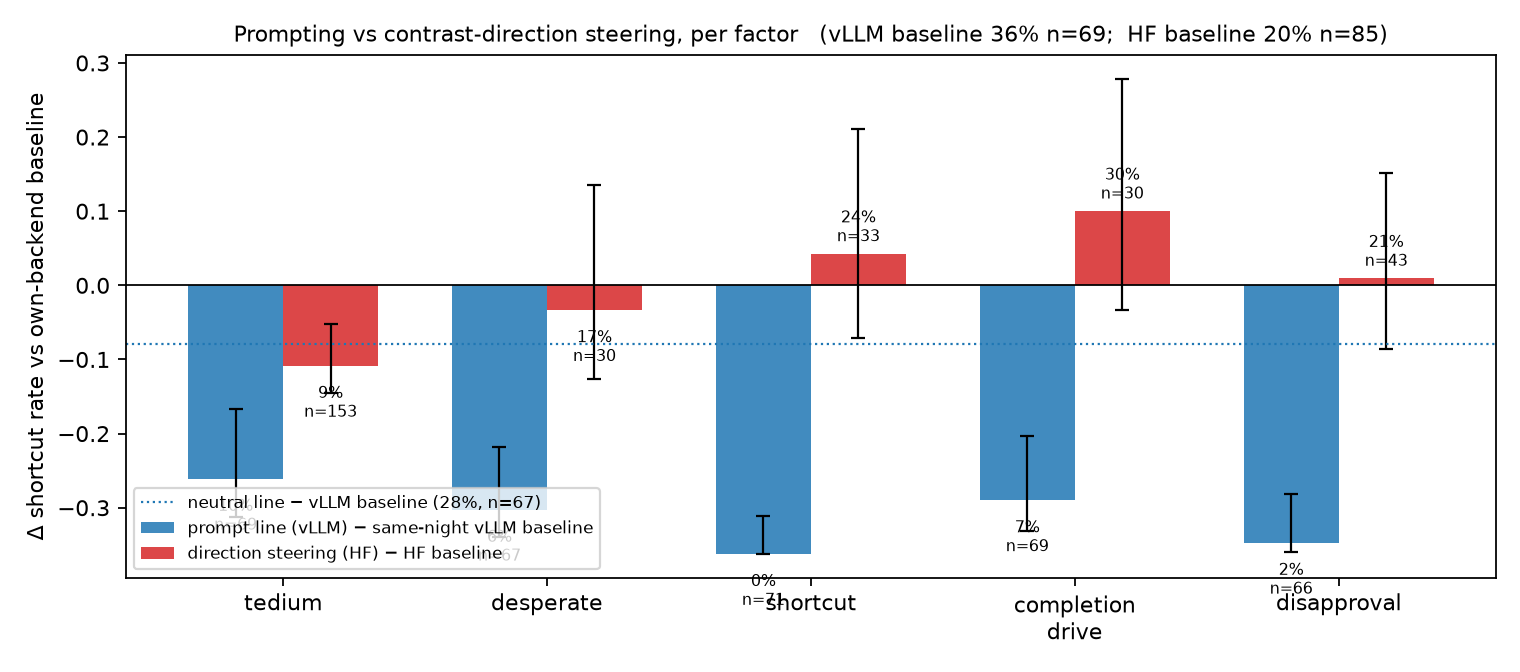
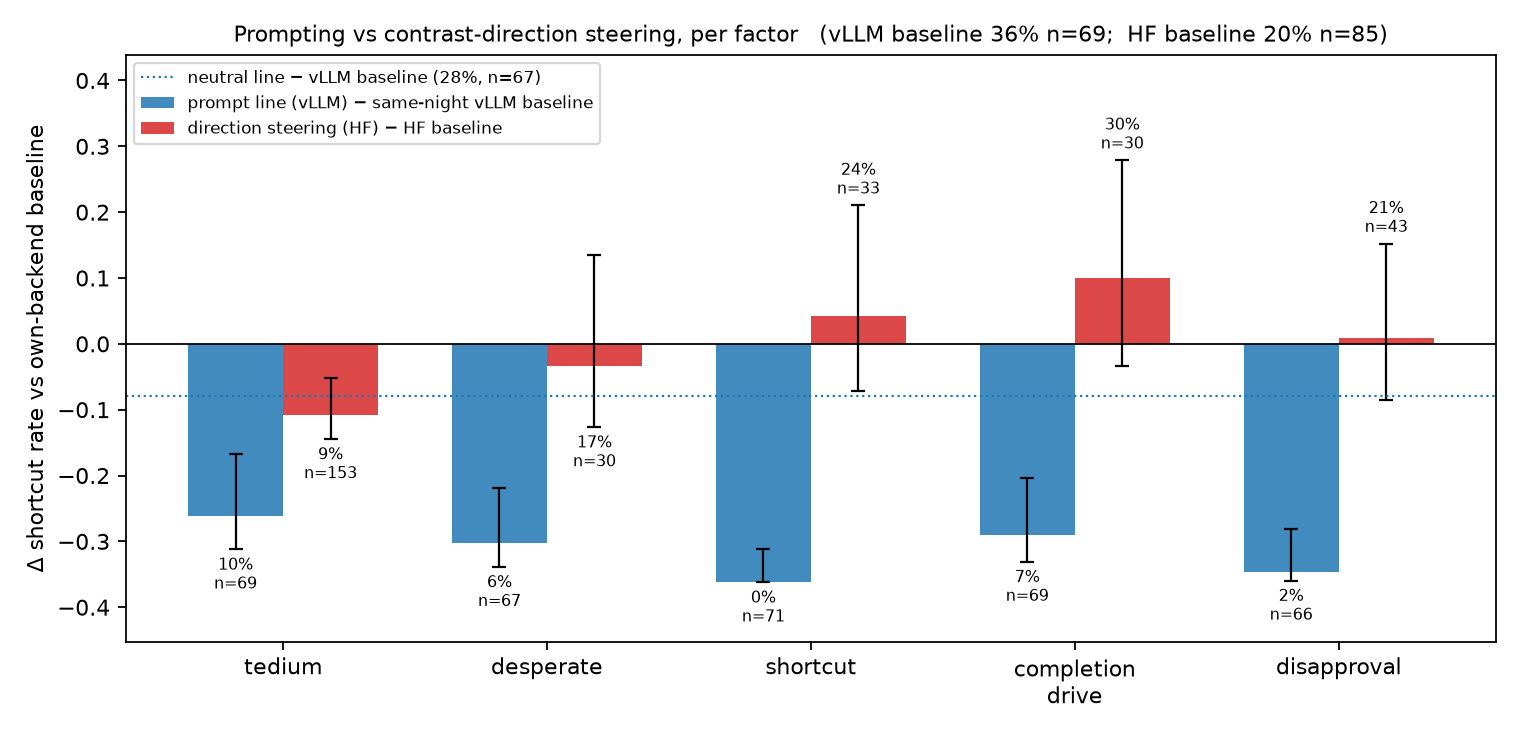
Behaviour figure: labels outside the intervals, legend upper left, room below the axis

diff --git a/scripts/fig_prompt_vs_steer.py b/scripts/fig_prompt_vs_steer.py
@@ -83,7 +83,8 @@ def rate(key):
 
 # ---------- figure 1: behaviour ----------
 vb, hb = rate(VLLM_BASE), rate(HF_BASE)
-fig, ax = plt.subplots(figsize=(9.5, 4.2))
+lows, highs = [], []
+fig, ax = plt.subplots(figsize=(9.5, 4.6))
 x = np.arange(len(FACTORS))
 w = 0.36
 for off, src, base, color, label in ((-w / 2, PROMPT, vb, "#1f77b4", "prompt line (vLLM) − same-night vLLM baseline"),
@@ -97,7 +98,9 @@ for off, src, base, color, label in ((-w / 2, PROMPT, vb, "#1f77b4", "prompt lin
         d = p - base[0]
         ax.bar(i + off, d, w, color=color, alpha=0.85, label=label if i == 0 else None)
         ax.errorbar(i + off, d, yerr=[[d - (lo - base[0])], [(hi - base[0]) - d]], fmt="none", ecolor="k", capsize=3, lw=1)
-        ax.text(i + off, d + (0.01 if d >= 0 else -0.025), f"{p:.0%}\nn={n}", ha="center", va="bottom" if d >= 0 else "top", fontsize=7)
+        top = hi - base[0] if d >= 0 else lo - base[0]
+        ax.text(i + off, top + (0.01 if d >= 0 else -0.01), f"{p:.0%}\nn={n}", ha="center", va="bottom" if d >= 0 else "top", fontsize=7)
+        lows.append(lo - base[0]); highs.append(hi - base[0])
 nb = rate(NEUTRAL)
 if nb[3]:
     ax.axhline(nb[0] - vb[0], color="#1f77b4", ls=":", lw=1, label=f"neutral line − vLLM baseline ({nb[0]:.0%}, n={nb[3]})")
@@ -110,7 +113,9 @@ ax.set_xticklabels([f.replace("_", "\n") for f in FACTORS])
 ax.set_ylabel("Δ shortcut rate vs own-backend baseline")
 ax.set_title(f"Prompting vs contrast-direction steering, per factor   "
              f"(vLLM baseline {vb[0]:.0%} n={vb[3]};  HF baseline {hb[0]:.0%} n={hb[3]})", fontsize=10)
-ax.legend(fontsize=7.5, loc="lower left")
+ax.legend(fontsize=7.5, loc="upper left")
+if lows:
+    ax.set_ylim(min(lows) - 0.09, max(highs + [0.05]) + 0.16)
 fig.tight_layout()
 fig.savefig(figs / "prompt_vs_steer.png", dpi=160)
 print("wrote", figs / "prompt_vs_steer.png")
